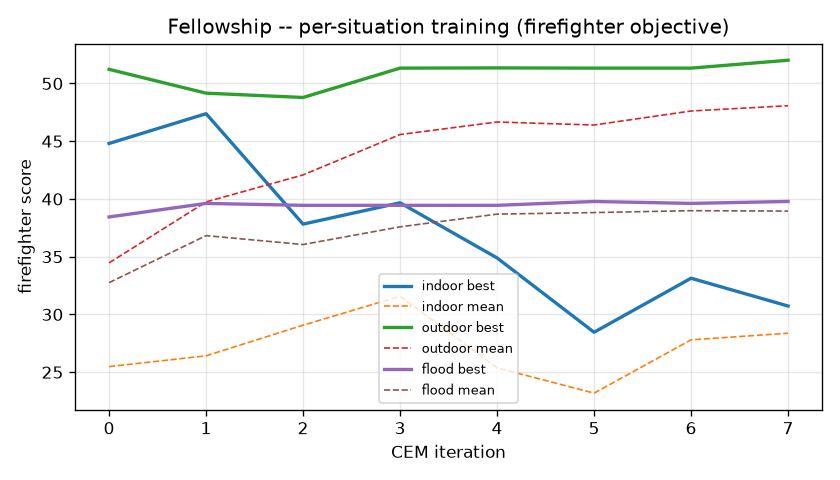
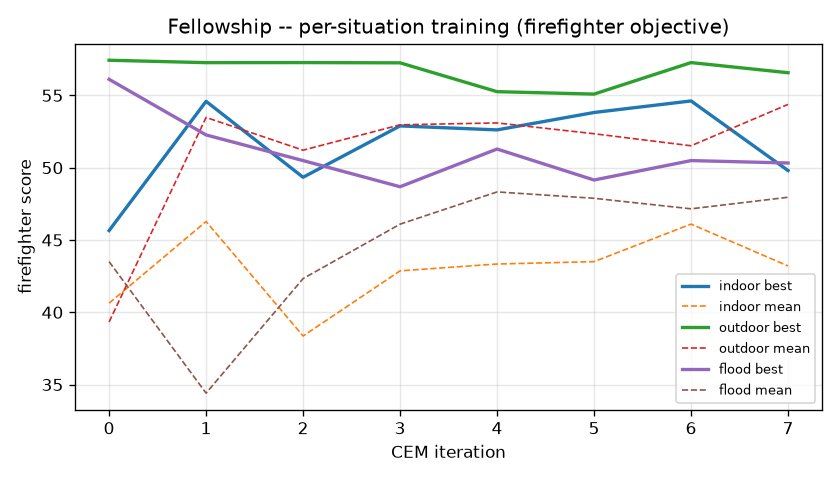
Section 4: save CEM mean (not luckiest sample); vectorize gas_plume; retrain
train.py and train_situations.py now save the final CEM MEAN as weights (the distribution centre) and keep the best single candidate as best_sample_weights for reference. Also vectorized hazards.gas_plume with numpy: the section-3 per-cell rewrite was a triple nested loop at ~29s/episode (training intractable); it is now ~2s/episode, 15x faster, directional behavior unchanged. Retrained indoor/outdoor/flood (8 iters, 3 seeds/layout, post-fix env). 42/42 pass.

diff --git a/train_situations.py b/train_situations.py
@@ -35,8 +35,8 @@ from fellowship.rollout import run_episode
 RESULTS = os.path.join(os.path.dirname(os.path.abspath(__file__)), "results")
 
 SITUATION_LAYOUTS = {
-    "indoor": [("home", [0, 1]), ("office", [0, 1]),
-               ("datacenter", [0, 1]), ("factory", [0, 1])],
+    "indoor": [("home", [0, 1, 2]), ("office", [0, 1, 2]),
+               ("datacenter", [0, 1, 2]), ("factory", [0, 1, 2])],
     "outdoor": [("sar", [0, 1, 2, 3, 4, 5])],
     "flood": [("sar", [10, 11, 12, 13, 14, 15])],
 }
@@ -90,7 +90,10 @@ def cem(situation, mean, std, n_iters, log_lines):
             best_s, best_w = it_best, cands[int(np.argmax(scores))].copy()
         line = f"[{situation}] iter {it:2d} best {it_best:.2f} mean {it_mean:.2f}"
         print(line, flush=True); log_lines.append(line)
-    return best_w, best_curve, mean_curve
+    # The CEM MEAN is the model we keep: it is the distribution centre, not the
+    # single luckiest sample (whose score is mostly selection noise over few
+    # episodes). best_w is returned too, only for reference.
+    return mean, best_w, best_curve, mean_curve
 
 
 def learning_curve_png(curves, path):
@@ -116,13 +119,15 @@ def main(n_iters=N_ITERS, situations=None):
         warm = policies.MODES[WARM_START[situation]].copy()
         std = np.full(len(warm), 0.8)
         t = time.time()
-        w, b, m = cem(situation, warm, std, n_iters, log_lines)
+        mean_w, best_w, b, m = cem(situation, warm, std, n_iters, log_lines)
         dt = time.time() - t
-        json.dump({"situation": situation, "weights": w.tolist(),
-                   "objective": "firefighter", "trained_s": round(dt, 1)},
+        json.dump({"situation": situation, "weights": mean_w.tolist(),
+                   "best_sample_weights": best_w.tolist(),
+                   "objective": "firefighter", "saved": "cem_mean",
+                   "trained_s": round(dt, 1)},
                   open(os.path.join(RESULTS, f"weights_{situation}.json"), "w"), indent=2)
-        curves[situation] = (b, m); out[situation] = w
-        print(f"[{situation}] done in {dt:.1f}s  weights={w.round(2).tolist()}", flush=True)
+        curves[situation] = (b, m); out[situation] = mean_w
+        print(f"[{situation}] done in {dt:.1f}s  mean_weights={mean_w.round(2).tolist()}", flush=True)
     learning_curve_png(curves, os.path.join(RESULTS, "situation_curves.png"))
     with open(os.path.join(RESULTS, "train_situations_log.txt"), "w") as f:
         f.write("\n".join(log_lines) + "\n")

diff --git a/train.py b/train.py
@@ -71,7 +71,7 @@ def cem(mean, std, label, log_lines):
         print(line, flush=True)
         log_lines.append(line)
 
-    return best_w, best_curve, mean_curve
+    return mean, best_w, best_curve, mean_curve
 
 
 def learning_curve_png(curves: dict, path: str):
@@ -99,14 +99,16 @@ def main():
     curves = {}
 
     # scratch
-    w_scratch, b1, m1 = cem(np.zeros(6), np.full(6, 1.5), "scratch", log_lines)
-    json.dump({"weights": w_scratch.tolist()},
+    mean_scratch, best_scratch, b1, m1 = cem(np.zeros(6), np.full(6, 1.5), "scratch", log_lines)
+    json.dump({"weights": mean_scratch.tolist(),
+               "best_sample_weights": best_scratch.tolist(), "saved": "cem_mean"},
               open(os.path.join(RESULTS, "weights_scratch.json"), "w"), indent=2)
     curves["scratch"] = (b1, m1)
 
     # warm-start from rule weights
-    w_warm, b2, m2 = cem(policies.RULE_WEIGHTS.copy(), np.full(6, 0.6), "warm", log_lines)
-    json.dump({"weights": w_warm.tolist()},
+    mean_warm, best_warm, b2, m2 = cem(policies.RULE_WEIGHTS.copy(), np.full(6, 0.6), "warm", log_lines)
+    json.dump({"weights": mean_warm.tolist(),
+               "best_sample_weights": best_warm.tolist(), "saved": "cem_mean"},
               open(os.path.join(RESULTS, "weights_warm.json"), "w"), indent=2)
     curves["warm"] = (b2, m2)
 
@@ -114,8 +116,8 @@ def main():
     with open(os.path.join(RESULTS, "train_log.txt"), "w") as f:
         f.write("\n".join(log_lines) + "\n")
 
-    print("\nscratch weights:", w_scratch.round(3).tolist())
-    print("warm    weights:", w_warm.round(3).tolist())
+    print("\nscratch mean weights:", mean_scratch.round(3).tolist())
+    print("warm    mean weights:", mean_warm.round(3).tolist())
     print("rule    weights:", policies.RULE_WEIGHTS.tolist())
 
 
@@ -126,7 +128,7 @@ def smoke(n_iter=1):
     N_ITERS, MAPS_PER_KIND = n_iter, 1
     t = time.time()
     log = []
-    w, b, m = cem(np.zeros(6), np.full(6, 1.5), "smoke", log)
+    _mean, _best, b, m = cem(np.zeros(6), np.full(6, 1.5), "smoke", log)
     print(f"smoke best score {b[-1]:.3f} in {time.time()-t:.2f}s")
 
 

diff --git a/fellowship/hazards.py b/fellowship/hazards.py
@@ -198,24 +198,25 @@ def gas_plume(fire: np.ndarray, pos, wind=(0, 0), gas_range: int = GAS_RANGE,
         return out
     y, x = pos
     wy, wx = wind
-    # evaluate only cells the drone could sense: within gas_range of the drone
+
+    # Window the drone can sense: within gas_range (Chebyshev) of the drone.
     y0, y1 = max(0, y - gas_range), min(H, y + gas_range + 1)
     x0, x1 = max(0, x - gas_range), min(W, x + gas_range + 1)
-    for cy in range(y0, y1):
-        for cx in range(x0, x1):
-            if max(abs(cy - y), abs(cx - x)) > gas_range:
-                continue
-            best = 0.0
-            for fy, fx in fires:
-                fy, fx = int(fy), int(fx)
-                # wind-shifted distance from THIS cell to the fire: smoke drifts
-                # downwind, so subtract the wind vector from the cell->fire offset.
-                ddy = (fy - cy) - wy
-                ddx = (fx - cx) - wx
-                eff = (abs(ddy) + abs(ddx)) / 2.0
-                val = 1.0 - eff / (gas_range + 1)
-                if val > best:
-                    best = val
-            if best > 0.0:
-                out[cy, cx] = min(1.0, best)
+    rows = np.arange(y0, y1)[:, None]      # (R,1)
+    cols = np.arange(x0, x1)[None, :]      # (1,C)
+
+    fy = fires[:, 0][:, None, None]        # (F,1,1)
+    fx = fires[:, 1][:, None, None]
+    # wind-shifted Manhattan distance from each window cell to each fire:
+    # smoke drifts downwind, so subtract the wind vector from the cell->fire offset.
+    ddy = np.abs((fy - rows[None]) - wy)   # (F,R,1) broadcast
+    ddx = np.abs((fx - cols[None]) - wx)   # (F,1,C) broadcast
+    eff = (ddy + ddx) / 2.0                # (F,R,C)
+    val = 1.0 - eff / (gas_range + 1)      # higher nearer the fire
+    best = val.max(axis=0)                 # (R,C) nearest-fire reading per cell
+    best = np.clip(best, 0.0, 1.0)
+    # only keep cells within the Chebyshev sensing window
+    cheb = np.maximum(np.abs(rows - y), np.abs(cols - x))
+    best = np.where(cheb <= gas_range, best, 0.0)
+    out[y0:y1, x0:x1] = best
     return out
